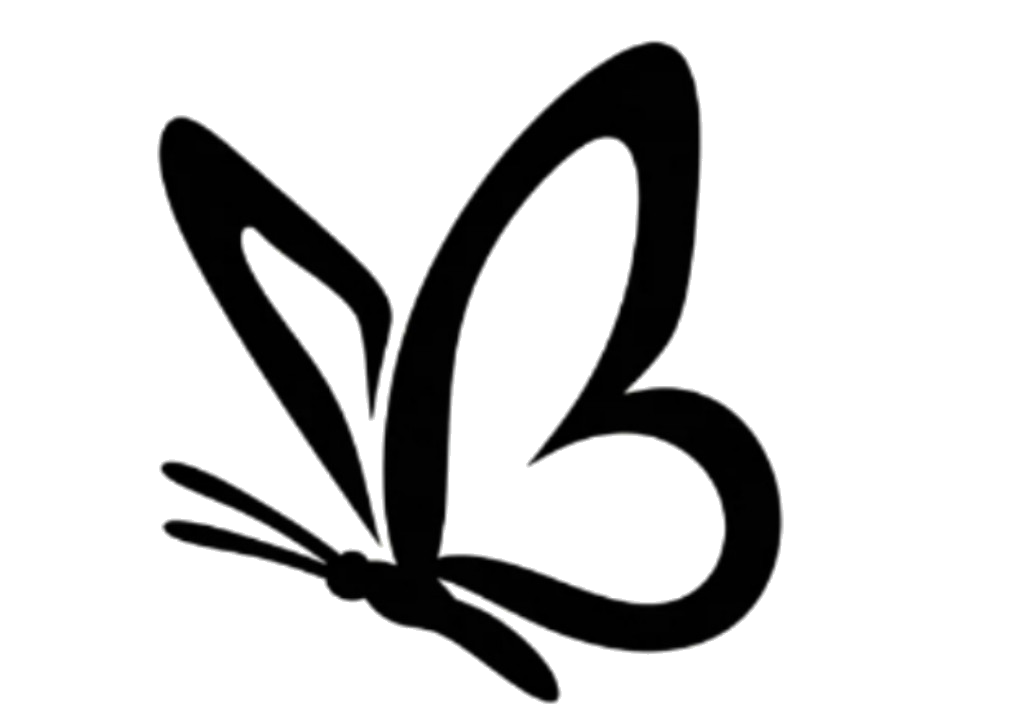
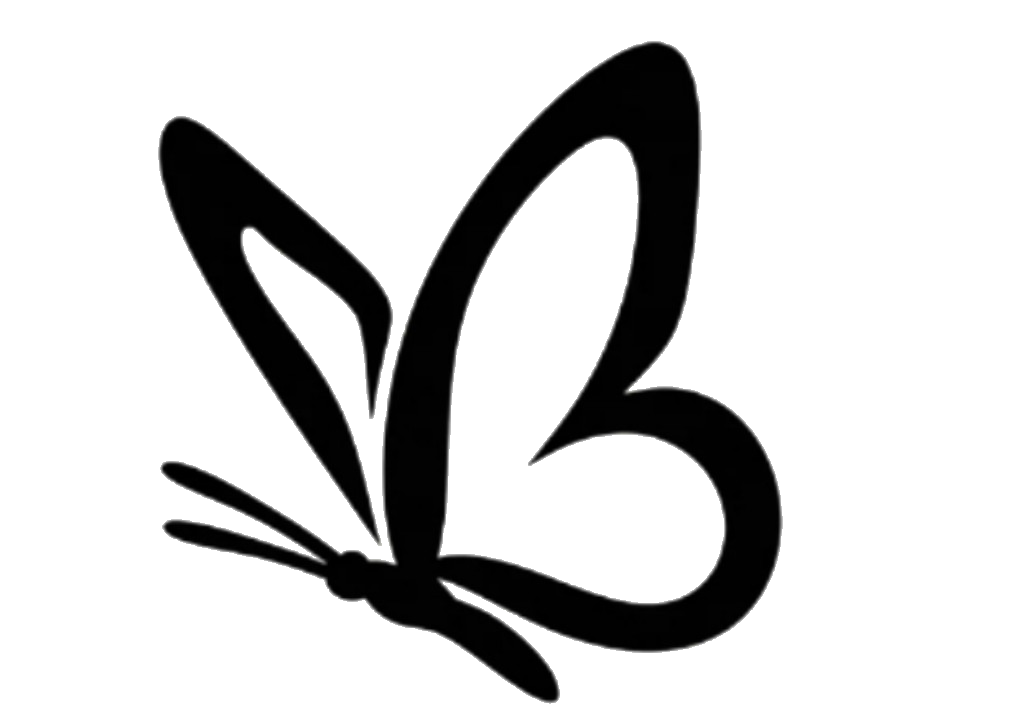
Убрать фон у бабочки и выровнять её над буквой «й» по референсу.
Бабочка через CSS-mask без белого прямоугольника, надпись «Студия Май» без изменений.

diff --git a/index.html b/index.html
@@ -31,7 +31,7 @@
             <span class="brand-title-wrap brand-title-wrap--header">
               <span class="brand-title-composite">
                 <img src="images/brand-title-clean.png" alt="Студия Май" class="brand-title-img brand-title-img--header" width="1129" height="343" decoding="async">
-                <img src="images/babochka-clear.png" alt="" class="brand-title-butterfly" width="120" height="120" decoding="async" aria-hidden="true">
+                <span class="brand-title-butterfly" aria-hidden="true"></span>
               </span>
             </span>
           </span>
@@ -74,7 +74,7 @@
             <span class="brand-title-wrap brand-title-wrap--hero">
               <span class="brand-title-composite">
                 <img src="images/brand-title-clean.png" alt="Студия Май" class="brand-title-img brand-title-img--hero" width="1129" height="343" decoding="async">
-                <img src="images/babochka-clear.png" alt="" class="brand-title-butterfly" width="120" height="120" decoding="async" aria-hidden="true">
+                <span class="brand-title-butterfly" aria-hidden="true"></span>
               </span>
             </span>
           </p>

diff --git a/style.css b/style.css
@@ -410,19 +410,22 @@ ul {
 
 .brand-title-butterfly {
   position: absolute;
-  top: 6%;
-  right: 5.2%;
-  width: 7.4%;
-  height: auto;
+  display: block;
+  top: -10%;
+  right: 7.4%;
+  width: 5.2%;
+  aspect-ratio: 1.05;
+  background: #2a2a2a;
+  -webkit-mask: url('images/babochka-clear.png') center / contain no-repeat;
+  mask: url('images/babochka-clear.png') center / contain no-repeat;
+  transform: rotate(-11deg);
+  transform-origin: 50% 100%;
   z-index: 2;
-  object-fit: contain;
   pointer-events: none;
-  transform: rotate(-10deg);
-  transform-origin: center bottom;
   filter:
-    drop-shadow(1px 1px 0 rgba(195, 195, 195, 0.72))
-    drop-shadow(2px 3px 5px rgba(175, 175, 175, 0.52))
-    drop-shadow(3px 6px 10px rgba(155, 155, 155, 0.32));
+    drop-shadow(1px 1px 0 rgba(200, 200, 200, 0.78))
+    drop-shadow(2px 3px 6px rgba(180, 180, 180, 0.55))
+    drop-shadow(3px 7px 12px rgba(160, 160, 160, 0.32));
 }
 
 .brand-title-wrap--header {
